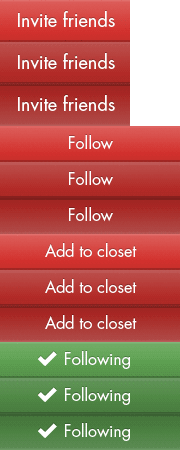
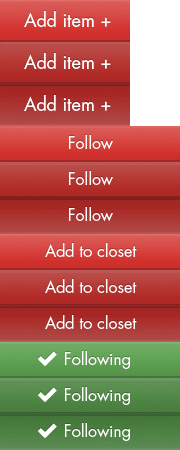
red add-item button

diff --git a/public/stylesheets/application.css b/public/stylesheets/application.css
@@ -165,7 +165,7 @@ div.welcome_text {
   position: relative; }
 
 #header .navbar .nav li:hover {
-  background: #333333; }
+  background: #3c3c3c; }
 
 #header .navbar .nav li ul {
   background: white;
@@ -200,7 +200,7 @@ div.welcome_text {
   line-height: 42px;
   font-size: 18px;
   position: relative;
-  padding: 0 10px;
+  padding: 0 16px;
   color: white;
   text-shadow: 0 -1px 1px rgba(0, 0, 0, 0.4); }
 
@@ -209,8 +209,18 @@ div.welcome_text {
   display: block; }
 
 .nav_add_item_button {
-  width: 100px;
-  text-align: center; }
+  width: 130px;
+  height: 42px;
+  background: url("/images/profile_buttons.png") 0 0;
+  cursor: pointer;
+  display: block;
+  padding: 0px; }
+
+.nav_add_item_button:hover {
+  background-position: 0 -42px; }
+
+.nav_add_item_button:active {
+  background-position: 0 -84px; }
 
 .nav_add_list, .nav_login_list {
   display: none;
@@ -222,7 +232,7 @@ div.welcome_text {
   position: absolute;
   top: 42px;
   left: 0px;
-  width: 120px; }
+  width: 130px; }
 
 .nav_user_button_user_photo {
   width: 26px;
@@ -238,9 +248,6 @@ div.welcome_text {
   position: absolute;
   right: 0px;
   white-space: nowrap; }
-
-.nav_login_button:hover .nav_user_button:hover {
-  background: #333333; }
 
 /* ------------------------------ Onboarding */
 #header .navbar ol#indicators {

diff --git a/public/stylesheets/application.scss b/public/stylesheets/application.scss
@@ -185,7 +185,7 @@ div.welcome_text {
 }
 
 #header .navbar .nav li:hover {
-	background: #333333;
+	background: #3c3c3c;
 }
 
 #header .navbar .nav li ul {
@@ -225,7 +225,7 @@ div.welcome_text {
 	line-height: 42px;
 	font-size: 18px;
 	position: relative;
-	padding: 0 10px;
+	padding: 0 16px;
 	color: white;
 	text-shadow: 0 -1px 1px rgba(0,0,0,0.4);
 }
@@ -236,9 +236,19 @@ div.welcome_text {
 }
 
 .nav_add_item_button {
-	width: 100px;
-	text-align: center;
+	width: 130px;
+  height: 42px;
+  background: url("/images/profile_buttons.png") 0 0;
+  cursor: pointer;
+  display: block;
+  padding: 0px;
 }
+
+.nav_add_item_button:hover {
+  background-position: 0 -42px; }
+
+.nav_add_item_button:active {
+  background-position: 0 -84px; }
 
 .nav_add_list, .nav_login_list {
 	display: none;
@@ -252,7 +262,7 @@ div.welcome_text {
 	position: absolute;
 	top: 42px;
 	left: 0px;
-	width: 120px;
+	width: 130px;
 }
 
 .nav_user_button_user_photo {
@@ -267,18 +277,10 @@ div.welcome_text {
 	padding: 0 10px;
 }
 
-.nav_login_button:hover {
-
-}
-
 .nav_login_list {
 	position: absolute;
 	right: 0px;
 	white-space: nowrap;
-}
-
-.nav_login_button:hover .nav_user_button:hover {
-	background: #333333;
 }
 
 /* ------------------------------ Onboarding */
